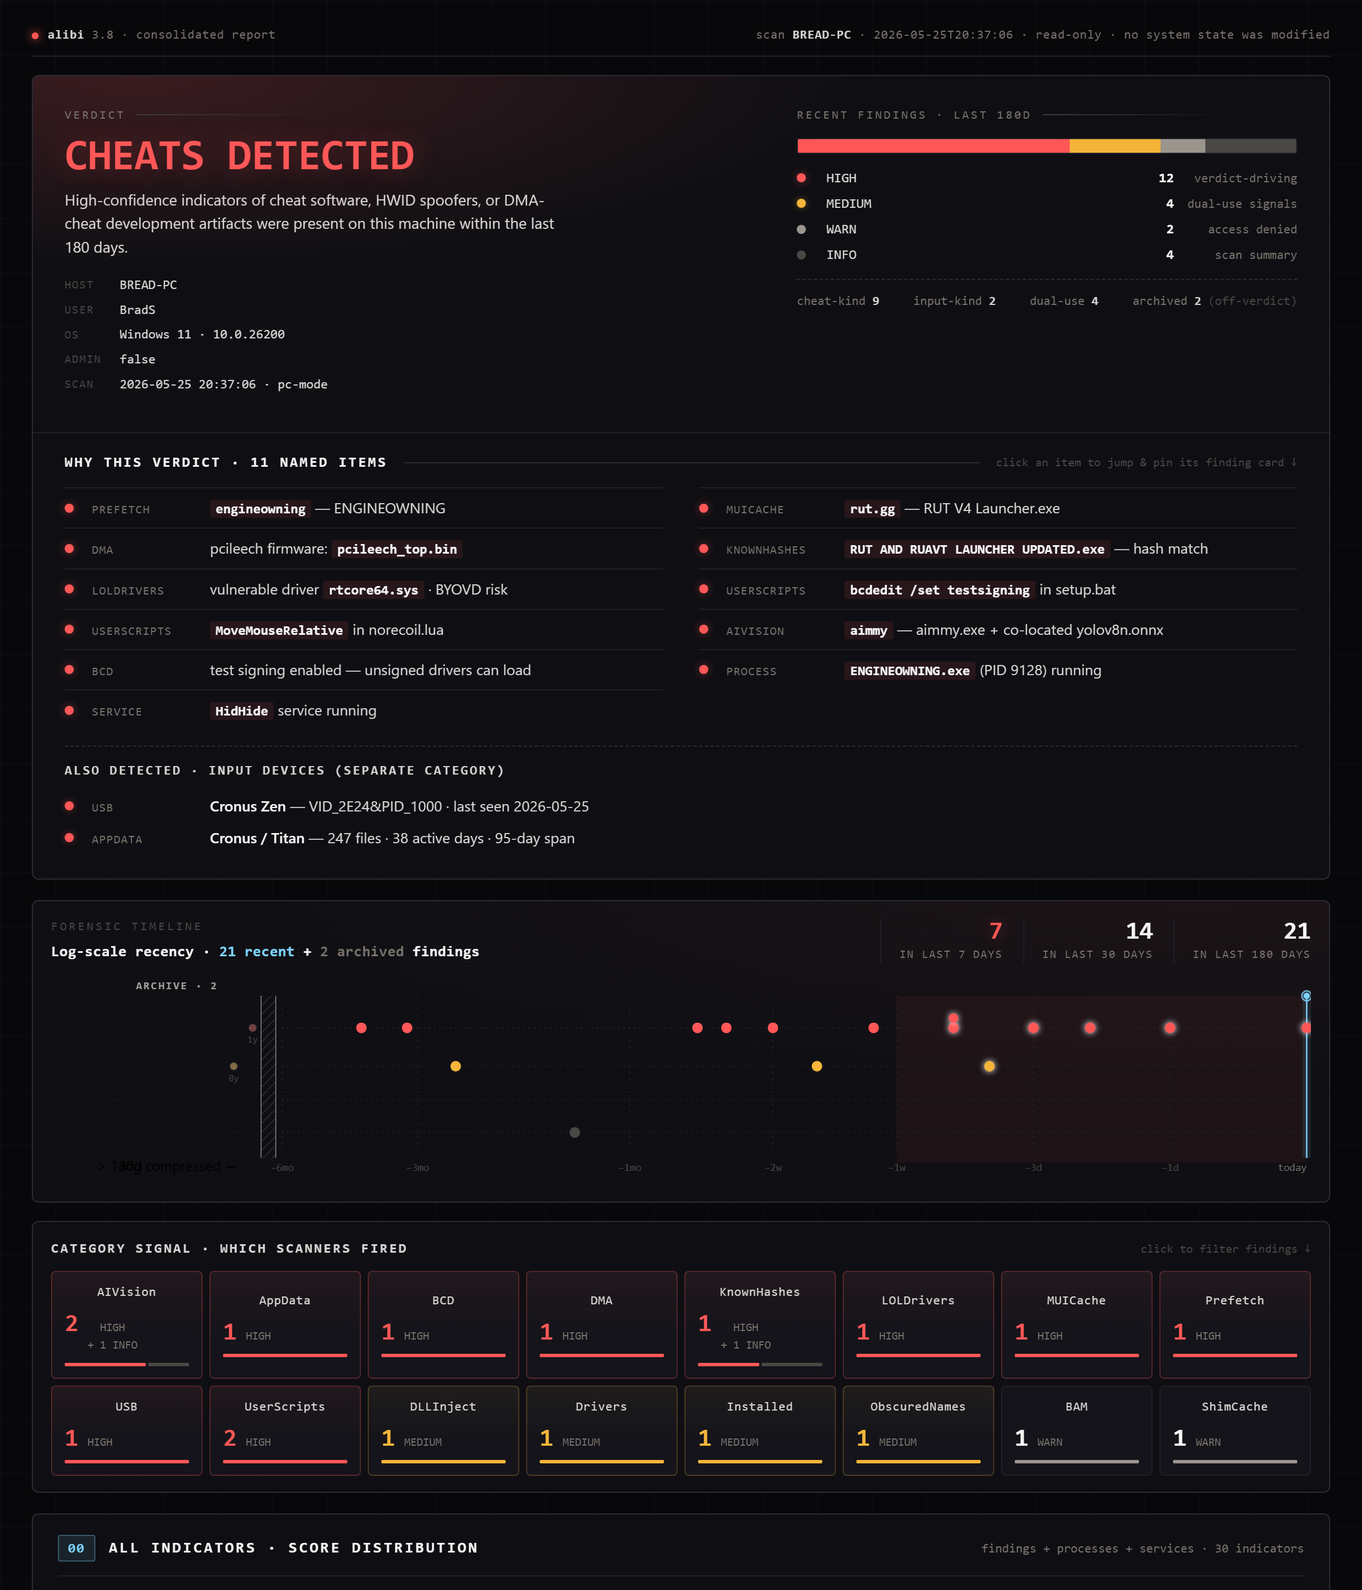
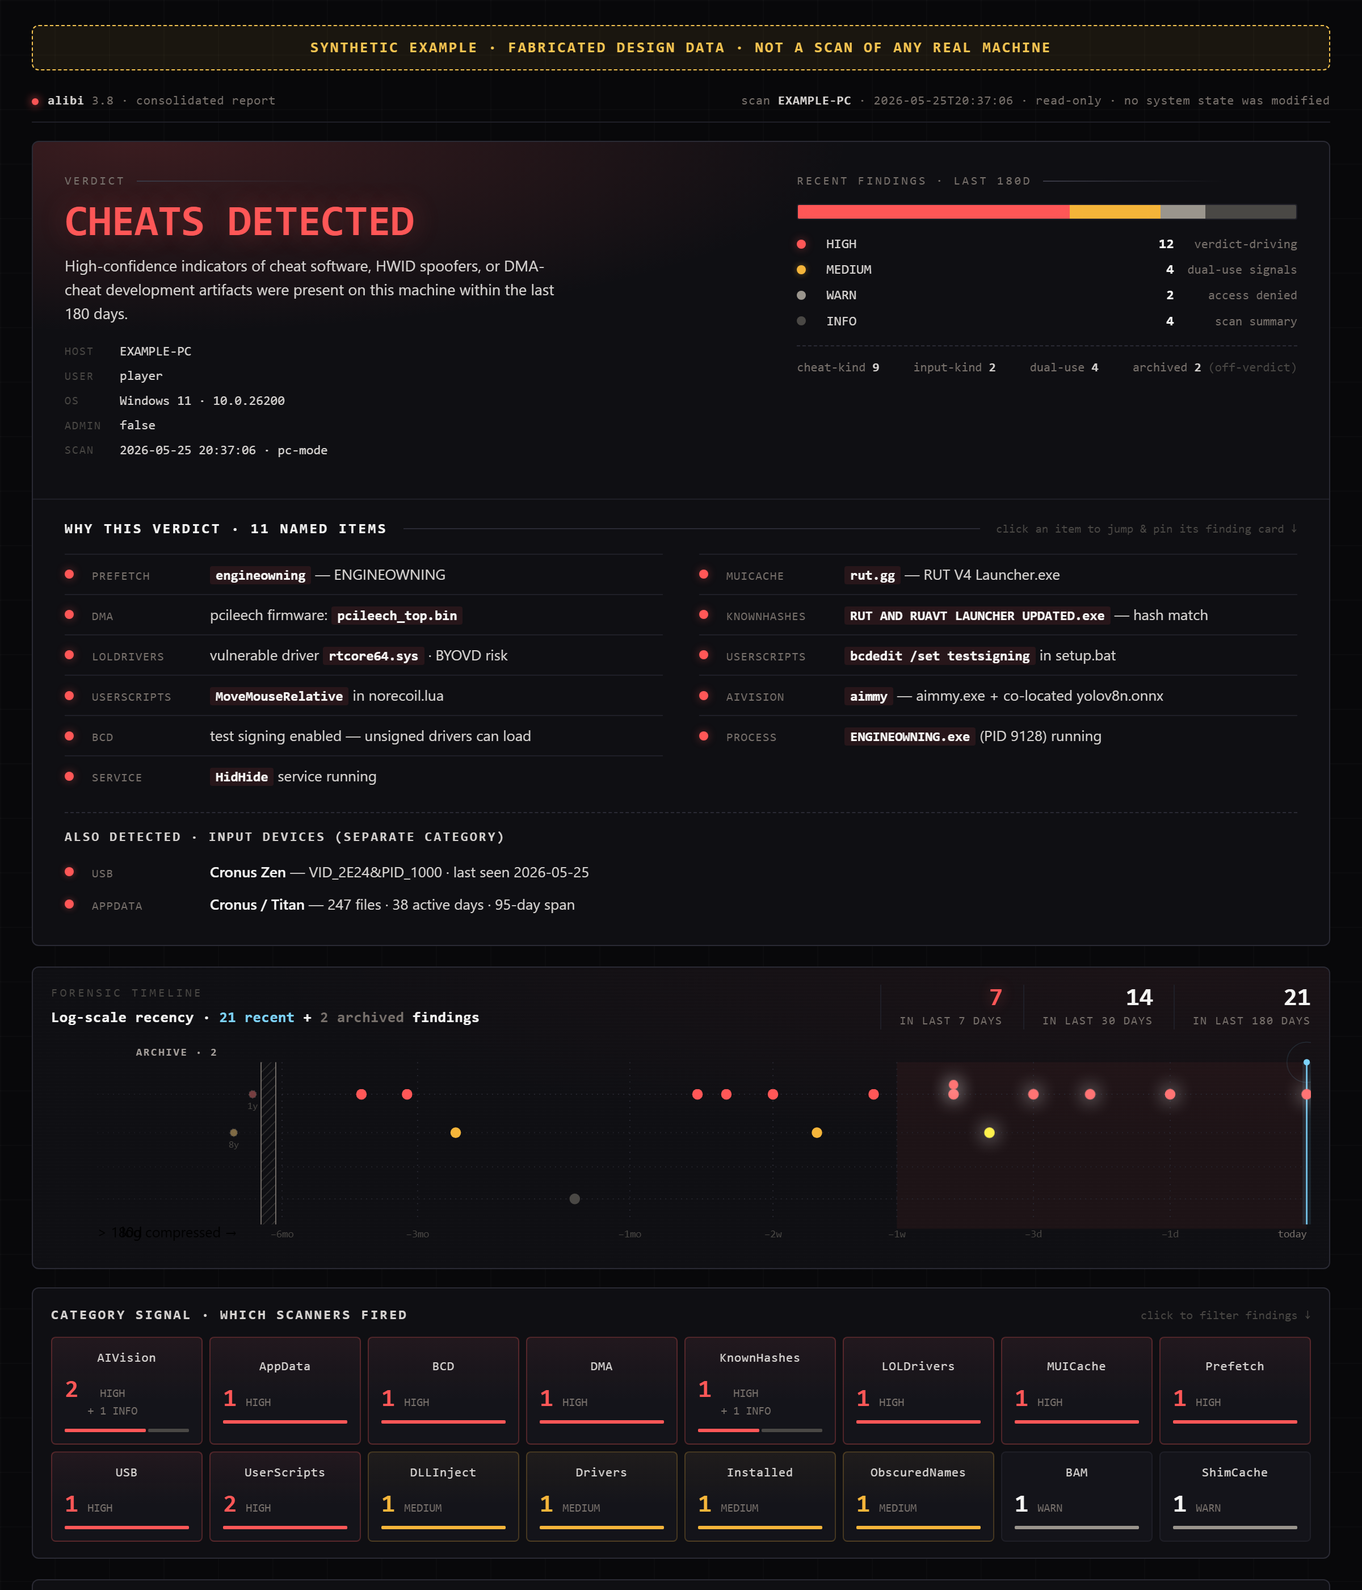
Label example reports as synthetic; neutralize host/user names
The README screenshots and design-handoff reference reports showed
placeholder host/user values that read like a real machine, and nothing on
the image said the data was fabricated.

- design-handoff reports: host -> EXAMPLE-PC, user -> player (user paths
  in the cheats example follow), a visible "SYNTHETIC EXAMPLE" banner and
  a <title> prefix on all three reports
- docs/screenshots/*.png re-rendered from those HTMLs at the original
  2400x2800 (1200x1400 @2x, headless Edge), with the same pc-check ->
  alibi header rebrand the originals used
- README: visible "synthetic example" captions and alt text

diff --git a/alibi-engine/docs/design-handoff-2026-05/reports/report-pc-cheats-detected.html b/alibi-engine/docs/design-handoff-2026-05/reports/report-pc-cheats-detected.html
@@ -2,7 +2,7 @@
 <html lang="en">
 <head>
 <meta charset="utf-8">
-<title>pc-check · BREAD-PC · 2026-05-25 · CHEATS DETECTED</title>
+<title>SYNTHETIC EXAMPLE · pc-check · EXAMPLE-PC · 2026-05-25 · CHEATS DETECTED</title>
 <meta name="generator" content="pc-check 3.8 (python)">
 <meta name="viewport" content="width=device-width, initial-scale=1">
 
@@ -1338,11 +1338,12 @@ body.has-focus #findings .finding.is-related { opacity: 1; }
 </head>
 <body>
 <div class="doc">
+  <div class="synthetic-banner" style="margin:0 0 18px;padding:10px 14px;border:1px dashed #f5c451;border-radius:6px;background:rgba(245,196,81,0.08);color:#f5c451;font:600 13px/1.4 ui-monospace,Consolas,monospace;letter-spacing:0.12em;text-align:center;text-transform:uppercase">Synthetic example · fabricated design data · not a scan of any real machine</div>
 
   <!-- ── doc bar ───────────────────────────────────────── -->
   <div class="docbar">
     <span class="tool"><b>pc-check</b> 3.8 · python · consolidated report</span>
-    <span>scan <b>BREAD-PC</b> · 2026-05-25T20:37:06 · read-only · no system state was modified</span>
+    <span>scan <b>EXAMPLE-PC</b> · 2026-05-25T20:37:06 · read-only · no system state was modified</span>
   </div>
 
   <!-- ══════════════════════════════════════════════════════
@@ -1359,8 +1360,8 @@ body.has-focus #findings .finding.is-related { opacity: 1; }
           development artifacts were present on this machine within the last 180 days.
         </p>
         <dl class="v-meta">
-          <dt>host</dt>  <dd>BREAD-PC</dd>
-          <dt>user</dt>  <dd>BradS</dd>
+          <dt>host</dt>  <dd>EXAMPLE-PC</dd>
+          <dt>user</dt>  <dd>player</dd>
           <dt>os</dt>    <dd>Windows 11 · 10.0.26200</dd>
           <dt>admin</dt> <dd>false</dd>
           <dt>scan</dt>  <dd>2026-05-25 20:37:06 · pc-mode</dd>
@@ -1773,8 +1774,8 @@ body.has-focus #findings .finding.is-related { opacity: 1; }
         <div class="finding-title"><span class="pat">aimmy</span>AI-vision aimbot executable detected: <code>aimmy.exe</code></div>
         <div class="finding-source">
           <span class="src-label">source</span>
-          <code class="src-path">C:\Users\Bob\source\aimmy\aimmy.exe</code>
-          <button class="copy-btn" data-copy="C:\Users\Bob\source\aimmy\aimmy.exe">copy</button>
+          <code class="src-path">C:\Users\player\source\aimmy\aimmy.exe</code>
+          <button class="copy-btn" data-copy="C:\Users\player\source\aimmy\aimmy.exe">copy</button>
         </div>
         <dl class="finding-meta" data-collapsed="4">
           <div class="kv"><dt>Pattern</dt><dd>aimmy</dd></div>
@@ -1782,7 +1783,7 @@ body.has-focus #findings .finding.is-related { opacity: 1; }
           <div class="kv"><dt>SizeBytes</dt><dd>18,223,104</dd></div>
           <div class="kv"><dt>LastWrite</dt><dd>2026-05-23 20:37:06</dd></div>
           <div class="kv hidden"><dt>Created</dt><dd>2026-05-07 20:37:06</dd></div>
-          <div class="kv hidden"><dt>FullPath</dt><dd>C:\Users\Bob\source\aimmy\aimmy.exe</dd></div>
+          <div class="kv hidden"><dt>FullPath</dt><dd>C:\Users\player\source\aimmy\aimmy.exe</dd></div>
         </dl>
         <button class="meta-expand"><span class="car"></span>expand · 2 more</button>
       </li>
@@ -1797,8 +1798,8 @@ body.has-focus #findings .finding.is-related { opacity: 1; }
         <div class="finding-title">ONNX model co-located with AI-aimbot executable: <code>yolov8n.onnx</code></div>
         <div class="finding-source">
           <span class="src-label">source</span>
-          <code class="src-path">C:\Users\Bob\source\aimmy\yolov8n.onnx</code>
-          <button class="copy-btn" data-copy="C:\Users\Bob\source\aimmy\yolov8n.onnx">copy</button>
+          <code class="src-path">C:\Users\player\source\aimmy\yolov8n.onnx</code>
+          <button class="copy-btn" data-copy="C:\Users\player\source\aimmy\yolov8n.onnx">copy</button>
         </div>
         <dl class="finding-meta" data-collapsed="4">
           <div class="kv"><dt>FileName</dt><dd>yolov8n.onnx</dd></div>
@@ -1806,7 +1807,7 @@ body.has-focus #findings .finding.is-related { opacity: 1; }
           <div class="kv"><dt>CoLocated</dt><dd>aimmy.exe (same dir)</dd></div>
           <div class="kv"><dt>LastWrite</dt><dd>2026-05-07 20:37:06</dd></div>
           <div class="kv hidden"><dt>Created</dt><dd>2026-05-07 20:37:06</dd></div>
-          <div class="kv hidden"><dt>FullPath</dt><dd>C:\Users\Bob\source\aimmy\yolov8n.onnx</dd></div>
+          <div class="kv hidden"><dt>FullPath</dt><dd>C:\Users\player\source\aimmy\yolov8n.onnx</dd></div>
         </dl>
         <button class="meta-expand"><span class="car"></span>expand · 2 more</button>
       </li>
@@ -1821,8 +1822,8 @@ body.has-focus #findings .finding.is-related { opacity: 1; }
         <div class="finding-title"><span class="pat">cronus</span>Cronus / Titan AppData — <b>247 files</b> across <b>38 active days</b></div>
         <div class="finding-source">
           <span class="src-label">source</span>
-          <code class="src-path">C:\Users\Bob\AppData\Local\ConsoleTuner</code>
-          <button class="copy-btn" data-copy="C:\Users\Bob\AppData\Local\ConsoleTuner">copy</button>
+          <code class="src-path">C:\Users\player\AppData\Local\ConsoleTuner</code>
+          <button class="copy-btn" data-copy="C:\Users\player\AppData\Local\ConsoleTuner">copy</button>
         </div>
         <dl class="finding-meta" data-collapsed="4">
           <div class="kv"><dt>Label</dt><dd>Cronus / Titan</dd></div>
@@ -1876,8 +1877,8 @@ body.has-focus #findings .finding.is-related { opacity: 1; }
         <div class="finding-title">pcileech firmware build output: <code>pcileech_top.bin</code></div>
         <div class="finding-source">
           <span class="src-label">source</span>
-          <code class="src-path">C:\Users\Bob\source\pcileech-fpga-build\pcileech_top.bin</code>
-          <button class="copy-btn" data-copy="C:\Users\Bob\source\pcileech-fpga-build\pcileech_top.bin">copy</button>
+          <code class="src-path">C:\Users\player\source\pcileech-fpga-build\pcileech_top.bin</code>
+          <button class="copy-btn" data-copy="C:\Users\player\source\pcileech-fpga-build\pcileech_top.bin">copy</button>
         </div>
         <dl class="finding-meta single">
           <div class="kv"><dt>FileName</dt><dd>pcileech_top.bin</dd></div>
@@ -1895,8 +1896,8 @@ body.has-focus #findings .finding.is-related { opacity: 1; }
         <div class="finding-title"><span class="pat">rut.gg</span>Hash match — confirmed cheat sample (<code>RUT AND RUAVT LAUNCHER UPDATED.exe</code>)</div>
         <div class="finding-source">
           <span class="src-label">source</span>
-          <code class="src-path">C:\Users\Bob\Downloads\RUT AND RUAVT LAUNCHER UPDATED.exe</code>
-          <button class="copy-btn" data-copy="C:\Users\Bob\Downloads\RUT AND RUAVT LAUNCHER UPDATED.exe">copy</button>
+          <code class="src-path">C:\Users\player\Downloads\RUT AND RUAVT LAUNCHER UPDATED.exe</code>
+          <button class="copy-btn" data-copy="C:\Users\player\Downloads\RUT AND RUAVT LAUNCHER UPDATED.exe">copy</button>
         </div>
         <dl class="finding-meta" data-collapsed="4">
           <div class="kv"><dt>KnownSampleOf</dt><dd>RUT AND RUAVT LAUNCHER UPDATED.exe (rut.gg)</dd></div>
@@ -1918,8 +1919,8 @@ body.has-focus #findings .finding.is-related { opacity: 1; }
         <div class="finding-title">VULNERABLE DRIVER — BYOVD risk, hash confirmed: <code>rtcore64.sys</code></div>
         <div class="finding-source">
           <span class="src-label">source</span>
-          <code class="src-path">C:\Users\Bob\AppData\Local\Temp\rtcore64.sys</code>
-          <button class="copy-btn" data-copy="C:\Users\Bob\AppData\Local\Temp\rtcore64.sys">copy</button>
+          <code class="src-path">C:\Users\player\AppData\Local\Temp\rtcore64.sys</code>
+          <button class="copy-btn" data-copy="C:\Users\player\AppData\Local\Temp\rtcore64.sys">copy</button>
         </div>
         <dl class="finding-meta" data-collapsed="4">
           <div class="kv"><dt>DeviceName</dt><dd>RTCore64</dd></div>
@@ -1949,7 +1950,7 @@ body.has-focus #findings .finding.is-related { opacity: 1; }
         </div>
         <dl class="finding-meta">
           <div class="kv"><dt>Pattern</dt><dd>rut.gg</dd></div>
-          <div class="kv"><dt>Value</dt><dd>C:\Users\Bob\Downloads\RUT V4 Launcher.exe</dd></div>
+          <div class="kv"><dt>Value</dt><dd>C:\Users\player\Downloads\RUT V4 Launcher.exe</dd></div>
           <div class="kv"><dt>Data</dt><dd>RUT and RUAVT</dd></div>
           <div class="kv"><dt>LastWrite</dt><dd>2026-05-20 20:37:06</dd></div>
         </dl>
@@ -2019,8 +2020,8 @@ body.has-focus #findings .finding.is-related { opacity: 1; }
         <div class="finding-title"><span class="pat">bcdedit /set testsigning</span>High-risk command pattern inside <code>~\Desktop\setup.bat</code></div>
         <div class="finding-source">
           <span class="src-label">source</span>
-          <code class="src-path">C:\Users\Bob\Desktop\setup.bat</code>
-          <button class="copy-btn" data-copy="C:\Users\Bob\Desktop\setup.bat">copy</button>
+          <code class="src-path">C:\Users\player\Desktop\setup.bat</code>
+          <button class="copy-btn" data-copy="C:\Users\player\Desktop\setup.bat">copy</button>
         </div>
         <dl class="finding-meta">
           <div class="kv"><dt>Pattern</dt><dd>bcdedit /set testsigning</dd></div>
@@ -2041,8 +2042,8 @@ body.has-focus #findings .finding.is-related { opacity: 1; }
         <div class="finding-title"><span class="pat">MoveMouseRelative</span>Mouse-macro / anti-recoil script pattern in <code>norecoil.lua</code></div>
         <div class="finding-source">
           <span class="src-label">source</span>
-          <code class="src-path">C:\Users\Bob\Documents\macros\norecoil.lua</code>
-          <button class="copy-btn" data-copy="C:\Users\Bob\Documents\macros\norecoil.lua">copy</button>
+          <code class="src-path">C:\Users\player\Documents\macros\norecoil.lua</code>
+          <button class="copy-btn" data-copy="C:\Users\player\Documents\macros\norecoil.lua">copy</button>
         </div>
         <dl class="finding-meta">
           <div class="kv"><dt>Pattern</dt><dd>MoveMouseRelative</dd></div>
@@ -2072,7 +2073,7 @@ body.has-focus #findings .finding.is-related { opacity: 1; }
           <code class="src-path">Sysmon Event ID 7</code>
         </div>
         <dl class="finding-meta">
-          <div class="kv"><dt>ImageLoaded</dt><dd>C:\Users\Bob\source\xenos\xenos64.dll</dd></div>
+          <div class="kv"><dt>ImageLoaded</dt><dd>C:\Users\player\source\xenos\xenos64.dll</dd></div>
           <div class="kv"><dt>TargetProcess</dt><dd>explorer.exe</dd></div>
           <div class="kv"><dt>ProcessId</dt><dd>4288</dd></div>
           <div class="kv"><dt>Timestamp</dt><dd>2026-05-14 20:37:06</dd></div>
@@ -2129,8 +2130,8 @@ body.has-focus #findings .finding.is-related { opacity: 1; }
         <div class="finding-title">Obscured filename: raw hex name (<code>deadbeef12345678.exe</code>)</div>
         <div class="finding-source">
           <span class="src-label">source</span>
-          <code class="src-path">C:\Users\Bob\Downloads\deadbeef12345678.exe</code>
-          <button class="copy-btn" data-copy="C:\Users\Bob\Downloads\deadbeef12345678.exe">copy</button>
+          <code class="src-path">C:\Users\player\Downloads\deadbeef12345678.exe</code>
+          <button class="copy-btn" data-copy="C:\Users\player\Downloads\deadbeef12345678.exe">copy</button>
         </div>
         <dl class="finding-meta">
           <div class="kv"><dt>FileName</dt><dd>deadbeef12345678.exe</dd></div>
@@ -2176,7 +2177,7 @@ body.has-focus #findings .finding.is-related { opacity: 1; }
       <li id="f-info-aimresnet" class="finding" data-severity="INFO" data-kind="other" data-category="AIVision" style="display:none">
         <div class="finding-head"><span class="sev-tag" data-sev="INFO">INFO</span><span class="kind-tag">other</span><span class="cat-tag" data-cat="AIVision">AIVision</span><time class="finding-when">last write 2026-04-15</time></div>
         <div class="finding-title">ONNX model present (no aimbot constellation): <code>resnet50.onnx</code></div>
-        <div class="finding-source"><span class="src-label">source</span><code class="src-path">C:\Users\Bob\Documents\ml-class\resnet50.onnx</code></div>
+        <div class="finding-source"><span class="src-label">source</span><code class="src-path">C:\Users\player\Documents\ml-class\resnet50.onnx</code></div>
       </li>
       <li id="f-info-hashed" class="finding" data-severity="INFO" data-kind="other" data-category="KnownHashes" style="display:none">
         <div class="finding-head"><span class="sev-tag" data-sev="INFO">INFO</span><span class="kind-tag">other</span><span class="cat-tag" data-cat="KnownHashes">KnownHashes</span></div>
@@ -2224,7 +2225,7 @@ body.has-focus #findings .finding.is-related { opacity: 1; }
               <td>9128</td>
               <td>
                 <span class="name">ENGINEOWNING.exe</span><br>
-                <span style="color:var(--ink-4)">C:\Users\Bob\AppData\Local\engineowning\EO.exe</span>
+                <span style="color:var(--ink-4)">C:\Users\player\AppData\Local\engineowning\EO.exe</span>
                 <div class="reason">matches <code>engineowning</code> · cheat keyword · cmd <code>"…EO.exe" --loader</code></div>
               </td>
             </tr>

diff --git a/alibi-engine/docs/design-handoff-2026-05/reports/report-console-capture-stack.html b/alibi-engine/docs/design-handoff-2026-05/reports/report-console-capture-stack.html
@@ -2,7 +2,7 @@
 <html lang="en">
 <head>
 <meta charset="utf-8">
-<title>pc-check (console-rig) · BREAD-PC · 2026-05-25 · CAPTURE STACK PRESENT</title>
+<title>SYNTHETIC EXAMPLE · pc-check (console-rig) · EXAMPLE-PC · 2026-05-25 · CAPTURE STACK PRESENT</title>
 <meta name="generator" content="pc-check 3.8 (python)">
 <meta name="viewport" content="width=device-width, initial-scale=1">
 
@@ -1338,11 +1338,12 @@ body.has-focus #findings .finding.is-related { opacity: 1; }
 </head>
 <body>
 <div class="doc">
+  <div class="synthetic-banner" style="margin:0 0 18px;padding:10px 14px;border:1px dashed #f5c451;border-radius:6px;background:rgba(245,196,81,0.08);color:#f5c451;font:600 13px/1.4 ui-monospace,Consolas,monospace;letter-spacing:0.12em;text-align:center;text-transform:uppercase">Synthetic example · fabricated design data · not a scan of any real machine</div>
 
   <!-- ── doc bar ───────────────────────────────────────── -->
   <div class="docbar">
     <span class="tool"><b>pc-check-console-rig</b> 1.2 · python · consolidated report</span>
-    <span>scan <b>BREAD-PC</b> · 2026-05-25T20:37:06 · read-only · no system state was modified</span>
+    <span>scan <b>EXAMPLE-PC</b> · 2026-05-25T20:37:06 · read-only · no system state was modified</span>
   </div>
 
   <!-- ══════════════════════════════════════════════════════
@@ -1361,8 +1362,8 @@ body.has-focus #findings .finding.is-related { opacity: 1; }
           <b style="color: var(--ink); font-weight: 600;">not evidence of cheating</b>.
         </p>
         <dl class="v-meta">
-          <dt>host</dt>  <dd>BREAD-PC</dd>
-          <dt>user</dt>  <dd>BradS</dd>
+          <dt>host</dt>  <dd>EXAMPLE-PC</dd>
+          <dt>user</dt>  <dd>player</dd>
           <dt>os</dt>    <dd>Windows 11 · 10.0.26200</dd>
           <dt>admin</dt> <dd>false</dd>
           <dt>scan</dt>  <dd>2026-05-25 20:37:06 · console-rig mode</dd>

diff --git a/alibi-engine/docs/design-handoff-2026-05/reports/report-pc-clean.html b/alibi-engine/docs/design-handoff-2026-05/reports/report-pc-clean.html
@@ -2,7 +2,7 @@
 <html lang="en">
 <head>
 <meta charset="utf-8">
-<title>pc-check · GLASS-PC · 2026-05-25 · CLEAN</title>
+<title>SYNTHETIC EXAMPLE · pc-check · GLASS-PC · 2026-05-25 · CLEAN</title>
 <meta name="generator" content="pc-check 3.8 (python)">
 <meta name="viewport" content="width=device-width, initial-scale=1">
 
@@ -1346,6 +1346,7 @@ body.has-focus #findings .finding.is-related { opacity: 1; }
 </head>
 <body>
 <div class="doc">
+  <div class="synthetic-banner" style="margin:0 0 18px;padding:10px 14px;border:1px dashed #f5c451;border-radius:6px;background:rgba(245,196,81,0.08);color:#f5c451;font:600 13px/1.4 ui-monospace,Consolas,monospace;letter-spacing:0.12em;text-align:center;text-transform:uppercase">Synthetic example · fabricated design data · not a scan of any real machine</div>
 
   <!-- ── doc bar ───────────────────────────────────────── -->
   <div class="docbar">

diff --git a/README.md b/README.md
@@ -41,17 +41,19 @@ Running both covers every scenario this PC could be involved in. If you only pla
 
 Every scan writes a self-contained `_visual.html` next to the `.txt` report — verdict banner, recent-findings breakdown, a named "why this verdict" list, a log-scale recency timeline, and a per-scanner category signal map. No external assets; it works offline.
 
-**🔴 PC — `CHEATS DETECTED`**
+*The three screenshots below are **synthetic examples**: fabricated design data for placeholder machines (`EXAMPLE-PC`, `GLASS-PC`), not scans of any real PC.*
 
-![Alibi PC report showing a red CHEATS DETECTED verdict with named findings, recency timeline, and category signal map](docs/screenshots/report-cheats-detected.png)
+**🔴 PC — `CHEATS DETECTED`** *(synthetic example)*
 
-**🟡 Console-rig — `CAPTURE STACK PRESENT`**
+![Synthetic example (fabricated data, not a real scan): Alibi PC report for placeholder host EXAMPLE-PC showing a red CHEATS DETECTED verdict with named findings, recency timeline, and category signal map](docs/screenshots/report-cheats-detected.png)
 
-![Alibi console-rig report showing an amber CAPTURE STACK PRESENT verdict, disclosed streamer/capture stack, and reviewer note](docs/screenshots/report-console-capture-stack.png)
+**🟡 Console-rig — `CAPTURE STACK PRESENT`** *(synthetic example)*
 
-**🟢 PC — `CLEAN`**
+![Synthetic example (fabricated data, not a real scan): Alibi console-rig report for placeholder host EXAMPLE-PC showing an amber CAPTURE STACK PRESENT verdict, disclosed streamer/capture stack, and reviewer note](docs/screenshots/report-console-capture-stack.png)
 
-![Alibi PC report showing a green CLEAN verdict with all 14 detector groups returning no matches](docs/screenshots/report-clean.png)
+**🟢 PC — `CLEAN`** *(synthetic example)*
+
+![Synthetic example (fabricated data, not a real scan): Alibi PC report for placeholder host GLASS-PC showing a green CLEAN verdict with all 14 detector groups returning no matches](docs/screenshots/report-clean.png)
 
 > **Live, interactive example reports** (full HTML, no download) are hosted at [**sutaigne.github.io/alibi**](https://sutaigne.github.io/alibi/) — synthetic data rendered in the report's real layout. The hosted examples may lag the newest release.
 

diff --git a/alibi-engine/docs/design-handoff-2026-05/README.md b/alibi-engine/docs/design-handoff-2026-05/README.md
@@ -177,7 +177,7 @@ body::before {
 Top of every page. Two lines, mono, ink-4.
 
 ```
-●  pc-check 3.8 · python · consolidated report           scan BREAD-PC · 2026-05-25T20:37:06 · read-only · no system state was modified
+●  pc-check 3.8 · python · consolidated report           scan EXAMPLE-PC · 2026-05-25T20:37:06 · read-only · no system state was modified
 ```
 
 The leading `●` is a pulsing dot, colored by verdict state:
